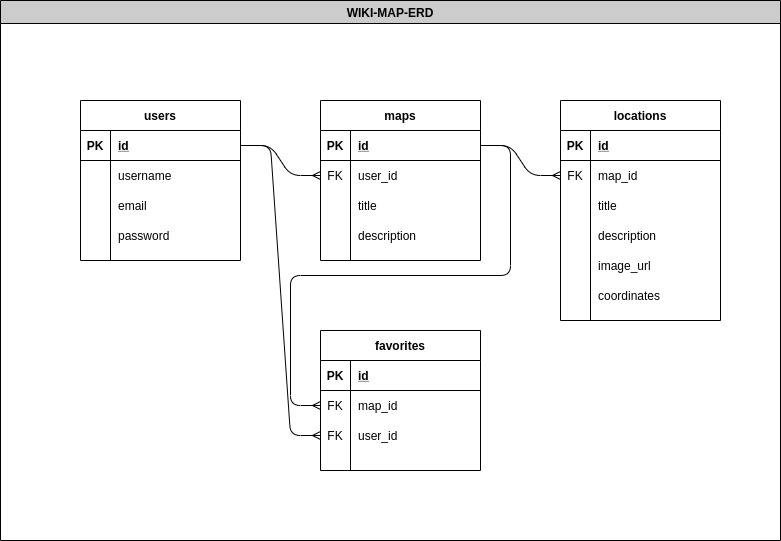
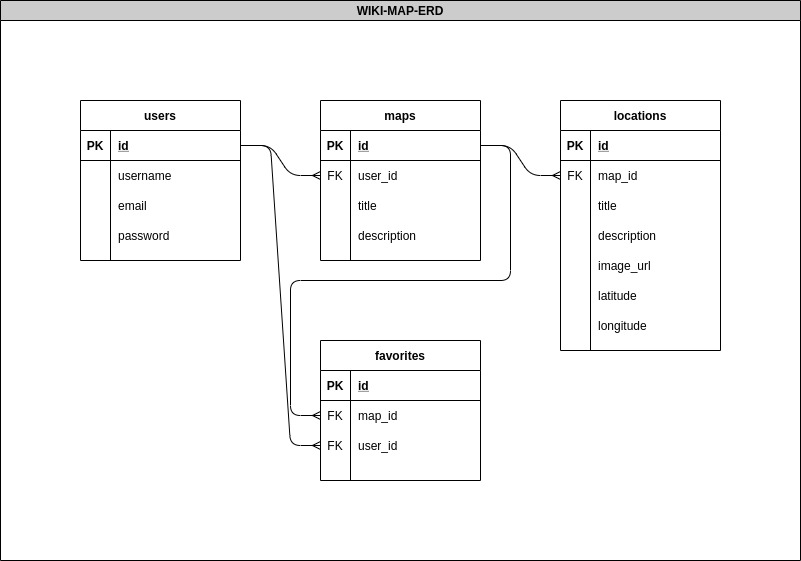
changes to readme and erd in planning folder

Changed region(s): [[0.0922, 0.1774, 0.9219, 0.8577], [0.0, 0.0, 1.0, 0.0591], [0.7068, 0.414, 0.8912, 0.6506]]

diff --git a/planning/README.md b/planning/README.md
@@ -1,7 +1,5 @@
 ## USER STORIES
 
-<br>
-
 * As a user, I can see a list of maps, because I want to see a list of maps other users have created!
 
 * As a user, I can view a map, because I want to see interesting things in my area!
@@ -22,20 +20,19 @@
 
 ## E.R.D.
 
-<br>
-
 !["WIKI-MAP-ERD"](https://github.com/davemgj84/Midterm-LHL/blob/master/planning/WIKI-MAP.jpg?raw=true)
 
 ## ROUTES
-
+* Mockup Login?
 * GET /maps
 * GET /maps/:id
+* GET /users/:id
 * POST /maps/:id/edit
 * POST /maps/:id/delete
-* POST /maps/new - Ask mentor?
-* GET /users - Ask mentor?
-* GET /users/:id - Ask mentor?
+* POST /maps/new
 
 ## MVP GOALS
 
-## STRECT GOALS
+## STRETCH GOALS
+* GET /login
+* POST /login (mockup page)
